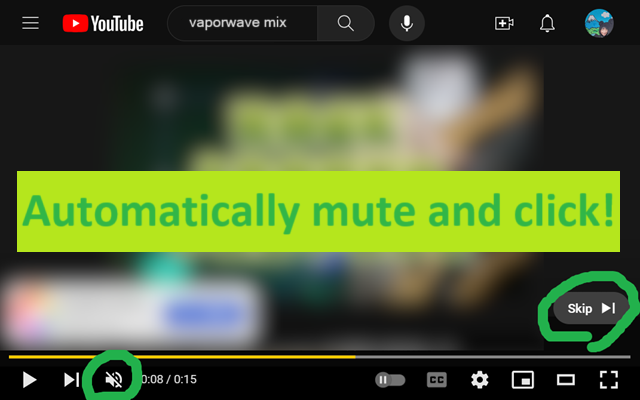
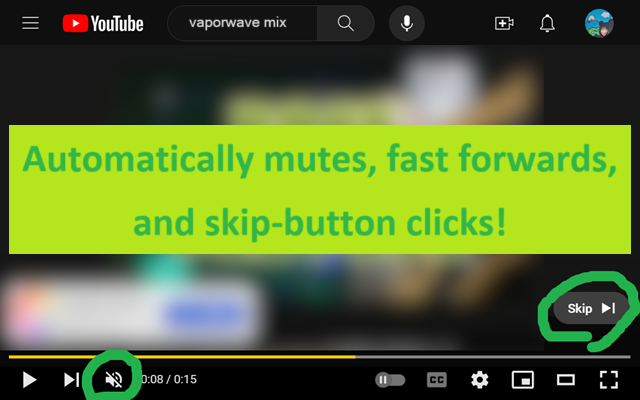
v0.6.0 fix (#2)

Changed region(s): [[0.0, 0.3, 1.0, 0.63], [0.0312, 0.63, 0.9688, 0.66]]

diff --git a/src/script.js b/src/script.js
@@ -21,12 +21,6 @@ function isMuted() {
   return !$(mutedSvg);
 }
 
-function setObserver(target$, callback, filter) {
-  const observer = (new MutationObserver(callback));
-  observer.observe(target$, filter);
-  return observer;
-}
-
 function mute(shouldMute) {
   const mute$ = $(muteButton);
   const muted = isMuted();
@@ -45,6 +39,18 @@ function mute(shouldMute) {
   }
 }
 
+function getVideoEl() {
+  return $('html5-main-video');
+}
+
+function setPlaybackRate(rate) {
+  getVideoEl().playbackRate = rate;
+}
+
+function getPlaybackRate() {
+  return getVideoEl().playbackRate;
+}
+
 function getSkipButton() {
   const className = [...new Set([...$(adMod).getElementsByTagName('button')].flatMap((btn) => [...btn.classList]))].find((n) => n.includes('skip'));
   return $(className);
@@ -60,7 +66,14 @@ function getVisibilityParent(target$) {
   return getVisibilityParent(target$.parentElement);
 }
 
+function setObserver(target$, callback, filter) {
+  const observer = (new MutationObserver(callback));
+  observer.observe(target$, filter);
+  return observer;
+}
+
 async function readySkip() {
+  setPlaybackRate(16);
   mute(true);
 
   const skipButton$ = getSkipButton();
@@ -103,9 +116,9 @@ async function readySkip() {
 
 function run(isInit) {
   // Ad module
-  const $adModOuter = $(adMod);
+  const adMod$ = $(adMod);
 
-  if (!$adModOuter) {
+  if (!adMod$) {
     if (isInit) {
       setTimeout(run, 3000);
     }
@@ -113,17 +126,18 @@ function run(isInit) {
   }
 
   let muted = isMuted();
+  let defer = Promise.resolve(true);
+  let playbackRate = getPlaybackRate();
 
-  if ($adModOuter.children.length > 0) {
+  if (adMod$.children.length > 0) {
     readySkip();
   }
 
-  let defer = Promise.resolve(true);
-
   setObserver(
-    $adModOuter,
+    adMod$,
     ([record]) => {
       if (!record?.addedNodes?.length) {
+        setPlaybackRate(playbackRate);
         if (!muted) {
           mute(false);
         }
@@ -139,6 +153,7 @@ function run(isInit) {
           return undefined;
         }
         muted = isMuted();
+        playbackRate = getPlaybackRate();
         return readySkip();
       });
     },
